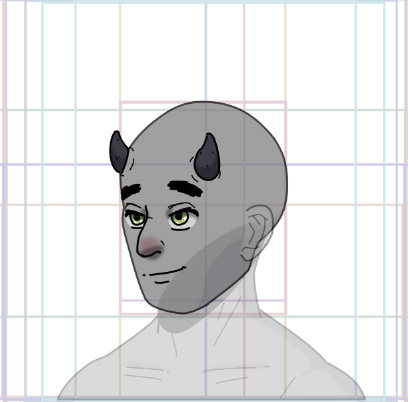
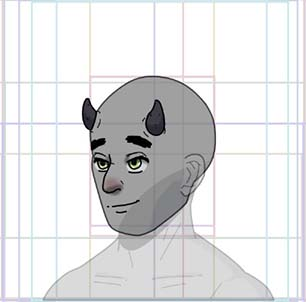
About

diff --git a/src/components/Portraits.jsx b/src/components/Portraits.jsx
@@ -13,43 +13,64 @@ export default function Portraits() {
                 alt="Drawing of the Portraits of the Rim logo: a woman with red hair and a wide brim hat holding a spray can."
                 title="Portraits of the Rim"
             />
-            <main className="mx-8 2xl:mx-0">
+            <main className="mx-8 my-4 leading-relaxed 2xl:mx-0 md:text-lg">
                 <section className="my-2">
-                    <h2 className="uppercase bg-slate-800 italic text-white text-shadow-noblur shadow-pink-700/50 font-title font-light tracking-wider text-3xl p-4 my-4">Overview of the Game</h2>
-                    <div className="flex flex-col md:flex-row gap-6 2xl:mx-4">
-                        <p>Rimworld is a space-western, colony-management game created by Ludeon Studios that utilizes the Unity engine. Branded as a "story generator", Rimworld tells the narratives of randomly generated colonists and their adventures (and often mis-adventures) across a titular rimworld. Rimworld shows its diverse collection of colonists (often dubbed as "pawns") as small, armless sprites viewed as if from far above by the player. These pawns can experience a lifetime of struggle, success, and the scars that reflect their stories. Despite the deep storytelling and emotional impact these small sprites can create, visual record-keeping is kept to a minimum. With this in mind, in May 2022 creation of Portraits of the Rim began.</p>
-                        <img src={pawns} />
+                    <h2 className="uppercase bg-slate-800 italic text-white text-shadow-noblur shadow-pink-700/50 font-title font-light tracking-wider text-3xl p-4 my-4 rounded-lg">Overview of the Game</h2>
+                    <div className="flex flex-col gap-6 md:flex-row 2xl:mx-4">
+                        <div className="flex flex-col items-center md:w-1/3">
+                            <img src={pawns}
+                                className="self-center"
+                                alt="Image of two pawns of a character named Tail in Rimworld"
+                            />
+                            <p className="text-sm text-center"> The pawn for the character "Tail"</p>
+                        </div>
+                        <p className="leading-relaxed md:w-2/3">Rimworld is a space-western, colony-management game created by Ludeon Studios that utilizes the Unity engine. Branded as a "story generator", Rimworld tells the narratives of randomly generated colonists and their adventures (and often mis-adventures) across a titular rimworld. Rimworld shows its diverse collection of colonists (often dubbed as "pawns") as small, armless sprites viewed as if from far above by the player. These pawns can experience a lifetime of struggle, success, and the scars that reflect their stories. Despite the deep storytelling and emotional impact these small sprites can create, visual record-keeping is kept to a minimum. With this in mind, in May 2022 creation of Portraits of the Rim began.</p>
                     </div>
                 </section>
                 <section className="my-2">
-                    <h2 className="uppercase bg-slate-800 italic text-white text-shadow-noblur shadow-pink-700/50 font-title font-light tracking-wider text-3xl p-4 my-4"> THE MOD </h2>
-                    <div className="flex flex-col md:flex-row gap-6 2xl:mx-4">
-                        <img
-                            src={port}
-                        />
-                        <p> At its core, Portraits of the Rim is a portrait generator that pulls from the pre-existing character sprites and creates a corresponding, dynamic character portrait. Generation of these portraits is done through a layering system much like a paper doll: a base is generated that includes a head and neck upon which layers and layers of individual assets are placed. With over 30 layers and a hierarchy that allows for complex combinations of hair, scars, genetic alterations, and clothing that look cohesive when placed, Portraits of the Rim is intended to show the breadth of character that the base game provides. </p>
+                    <h2 className="uppercase bg-slate-800 italic text-white text-shadow-noblur shadow-pink-700/50 font-title font-light tracking-wider text-3xl p-4 my-4 rounded-lg"> THE MOD </h2>
+                    <div className="flex flex-col md:flex-row md:h-min gap-6 2xl:mx-4">
+                        <p className="leading-relaxed md:w-2/3"> At its core, Portraits of the Rim is a portrait generator that pulls from the pre-existing character sprites and creates a corresponding, dynamic character portrait. Generation of these portraits is done through a layering system much like a paper doll: a base is generated that includes a head and neck upon which layers and layers of individual assets are placed. With over 30 layers and a hierarchy that allows for complex combinations of hair, scars, genetic alterations, and clothing that look cohesive when placed, Portraits of the Rim is intended to show the breadth of character that the base game provides. </p>
+                        <div className="flex flex-col items-center md:w-1/3">
+                            <img
+                                src={port}
+                                alt="Drawn portrait of a character named Tail in Rimworld"
+                                className="self-center"
+                            />
+                            <p className="text-sm text-center"> The generated portrait of "Tail" above</p>
+                        </div>
+
                     </div>
                 </section>
                 <section className="my-2">
-                    <h2 className="uppercase bg-slate-800 italic text-white text-shadow-noblur shadow-pink-700/50 font-title font-light tracking-wider text-3xl p-4 my-4"> ASSET GENERATION </h2>
+                    <h2 className="uppercase bg-slate-800 italic text-white text-shadow-noblur shadow-pink-700/50 font-title font-light tracking-wider text-3xl p-4 my-4 rounded-lg"> ASSET GENERATION </h2>
                     <div className="flex flex-col md:flex-row gap-6 2xl:mx-4">
-                        <p>From the base game alone, Portraits of the Rim generates over 800 unique assets with essentially infinite combinations to create individual portraits. In addition to the base game, the thriving mod community of Rimworld provides a near limitless amount of further customization. In addition, pawns can age from infancy to elderhood, providing another challenge in terms of consistency across assets and their function/placement on the portraits. To balance this need of cohesion without compromising the uniqueness of different gender identity and age, several different sizes and permutations of certain assets were also created. This has required extensive balancing on what is feasible and what is necessary in terms of asset creation on the mod. In addition, a grid system was created to provide guidelines for the location of assets relative to one another, allowing for consistency across demographics. In order to help reduce bias and "same-face syndrome", faces and expressions were pulled from <span className="italic">6 Billion Others</span>, a book of portraits from photographer Yann Arthus-Bertrand.</p>
-                        <img
-                            src={asset_gen}
-                        />
+                        <div className="flex flex-col items-center md:w-1/3">
+                            <img src={asset_gen}
+                                className="self-center"
+                                alt="A work in progress drawing of a man with horns"
+                            />
+                            <p className="text-sm text-center mt-0 pt-0"> A work in progress view of asset generation</p>
+                        </div>
+                        <p className="md:w-2/3">From the base game alone, Portraits of the Rim generates over 800 unique assets with essentially infinite combinations to create individual portraits. In addition to the base game, the thriving mod community of Rimworld provides a near limitless amount of further customization. In addition, pawns can age from infancy to elderhood, providing another challenge in terms of consistency across assets and their function/placement on the portraits. To balance this need of cohesion without compromising the uniqueness of different gender identity and age, several different sizes and permutations of certain assets were also created. This has required extensive balancing on what is feasible and what is necessary in terms of asset creation on the mod. In addition, a grid system was created to provide guidelines for the location of assets relative to one another, allowing for consistency across demographics. In order to help reduce bias and "same-face syndrome", faces and expressions were pulled from <span className="italic">6 Billion Others</span>, a book of portraits from photographer Yann Arthus-Bertrand.</p>
                     </div>
                 </section>
                 <section className="my-2">
-                    <h2 className="uppercase bg-slate-800 italic text-white text-shadow-noblur shadow-pink-700/50 font-title font-light tracking-wider text-3xl p-4 my-4"> Release </h2>
+                    <h2 className="uppercase bg-slate-800 italic text-white text-shadow-noblur shadow-pink-700/50 font-title font-light tracking-wider text-3xl p-4 my-4 rounded-lg"> Release </h2>
                     <div className="flex flex-col md:flex-row gap-6 2xl:mx-4">
-                        <img
-                            src={demo_gif}
-                        />
-                        <p>Portraits of the Rim is planned to be released in early 2023 with the help of Oskar Potocki, a graphic designer and leader of the Vanilla Expanded series, and Taranchuk, a programmer well-known in the Rimworld modding community for his work. Oskar has provided coordination with Taranchuk, continual feedback, advice, as well as very appreciated words of encouragement. Taranchuk programmed the framework for the mod within Rimworld. By time of release, Portraits of the Rim will have well over 1000 unique assets pulling from Rimworld itself and the Vanilla Expanded mod series.</p>
+                        <p className="md:w-2/3">Portraits of the Rim is planned to be released in early 2023 with the help of Oskar Potocki, a graphic designer and leader of the Vanilla Expanded series, and Taranchuk, a programmer well-known in the Rimworld modding community for his work. Oskar has provided coordination with Taranchuk, continual feedback, advice, as well as very appreciated words of encouragement. Taranchuk programmed the framework for the mod within Rimworld. By time of release, Portraits of the Rim will have well over 1000 unique assets pulling from Rimworld itself and the Vanilla Expanded mod series.</p>
+                        <div className="flex flex-col items-center md:w-1/3">
+                            <img
+                                src={demo_gif}
+                                alt="A slide show GIF image of various faces that are possible to generate using Portraits of the Rim"
+                                className="self-center max-h-[250px]"
+                            />
+                            <p className="text-sm text-center"> Sample faces possible with Portraits of the Rim</p>
+                        </div>
                     </div>
                 </section>
                 <section>
-                    <h2 className="uppercase bg-slate-800 italic text-white text-shadow-noblur shadow-pink-700/50 font-title font-light tracking-wider text-3xl p-4 my-4"> Future Plans </h2>
+                    <h2 className="uppercase bg-slate-800 italic text-white text-shadow-noblur shadow-pink-700/50 font-title font-light tracking-wider text-3xl p-4 my-4 rounded-lg"> Future Plans </h2>
                     <div className="flex flex-col md:flex-row gap-6 2xl:mx-4">
                         <p>Portraits of the Rim is intended to show the stories of all players and pawns. This means that it will include the many, many other aesthetic mods generated by the community. No date can be set on when the mod is "completed" and all unique assets are generated, but updates are planned to include these community mods.</p>
                     </div>

diff --git a/src/components/About.jsx b/src/components/About.jsx
@@ -1,7 +1,24 @@
+import about_pic from "../assets/about/temp.jpg"
+
 export default function About() {
     return (
-        <div>
-            About Page placeholder
-        </div>
+        <main className="flex-1 flex flex-col items-center gap-10 mx-10 md:mx-4 md:flex-row">
+            {/* Left section */}
+            <div className="md:w-1/2 text-center">
+                <p className="text-title font-extralight tracking-wide my-6 text-5xl md:text-7xl">Hi! I'm TwoPenny.</p>
+                <img
+                    src={about_pic}
+                    className="max-h-[500px] mx-auto"
+                    alt=""
+                />
+            </div>
+
+            {/* Right section */}
+            <div className="md:w-1/2">
+                <p className="leading-relaxed text-lg">
+                Lorem ipsum dolor sit amet, consectetur adipiscing elit. In vitae mi non odio dignissim feugiat in quis metus. Pellentesque habitant morbi tristique senectus et netus et malesuada fames ac turpis egestas. Vestibulum at magna ornare, facilisis elit ac, dignissim dolor. Sed rutrum diam ac felis posuere accumsan. Suspendisse enim eros, efficitur eu nisi ut, dapibus porttitor sapien. Aliquam porttitor neque in odio iaculis, ornare tristique mi scelerisque. Nunc dignissim lacus justo. Nullam sit amet mauris quis dui auctor faucibus mollis quis sapien. Etiam feugiat dui id aliquam viverra. In faucibus at eros vitae malesuada. Ut malesuada erat id est placerat, nec faucibus enim elementum. Nullam ac ultrices lorem, eu bibendum velit. Integer vel lectus interdum, tempor eros eu, porttitor odio. Praesent at feugiat neque. Quisque a tempor ante.
+                </p>
+            </div>
+        </main>
     )
 }

diff --git a/src/components/Navbar.jsx b/src/components/Navbar.jsx
@@ -22,7 +22,7 @@ export default function Navbar() {
                 leaveTo="transform scale-95 opacity-0"
             >
                 <Popover.Panel
-                    className="bg-slate-800 text-white w-screen shadow-lg text-center"
+                    className="bg-slate-800 text-white w-screen shadow-lg text-center z-20"
                     ref={setPopMenu}
                     style={styles.popper}
                     {...attributes.popper}

diff --git a/index.html b/index.html
@@ -10,7 +10,7 @@
     href="https://fonts.googleapis.com/css2?family=Kumbh+Sans:wght@200&family=Open+Sans:ital,wght@0,300;0,400;1,300;1,400&family=Work+Sans:ital,wght@0,200;0,300;0,400;1,200;1,300;1,400&display=swap"
     rel="stylesheet">
 </head>
-<body class="font-sans bg-indigo-400/60">
+<body class="font-sans bg-indigo-400/40">
   <div id="root"></div>
   <script type="module" src="/src/main.jsx"></script>
 </body>

diff --git a/src/components/MainRoot.jsx b/src/components/MainRoot.jsx
@@ -1,11 +1,13 @@
 import { Outlet } from 'react-router-dom'
 import Navbar from './Navbar'
+import Footer from './Footer'
 
 export default function MainRoot() {
     return (
-        <div className="md:max-w-screen-2xl md:mx-auto">
+        <div className="min-h-screen flex flex-col m-0 md:max-w-screen-2xl md:mx-auto">
             <Navbar/>
             <Outlet />
+            <Footer />
         </div>
     )
 }

diff --git a/src/components/Footer.jsx b/src/components/Footer.jsx
@@ -1,7 +1,7 @@
 export default function Footer() {
     return (
-        <div className="text-center font-title font-light">
+        <footer className="text-center font-title font-light mt-11 mb-8">
             <p> Copyright &copy; TwoPennyDoodle 2022</p>
-        </div>
+        </footer>
     )
 }
